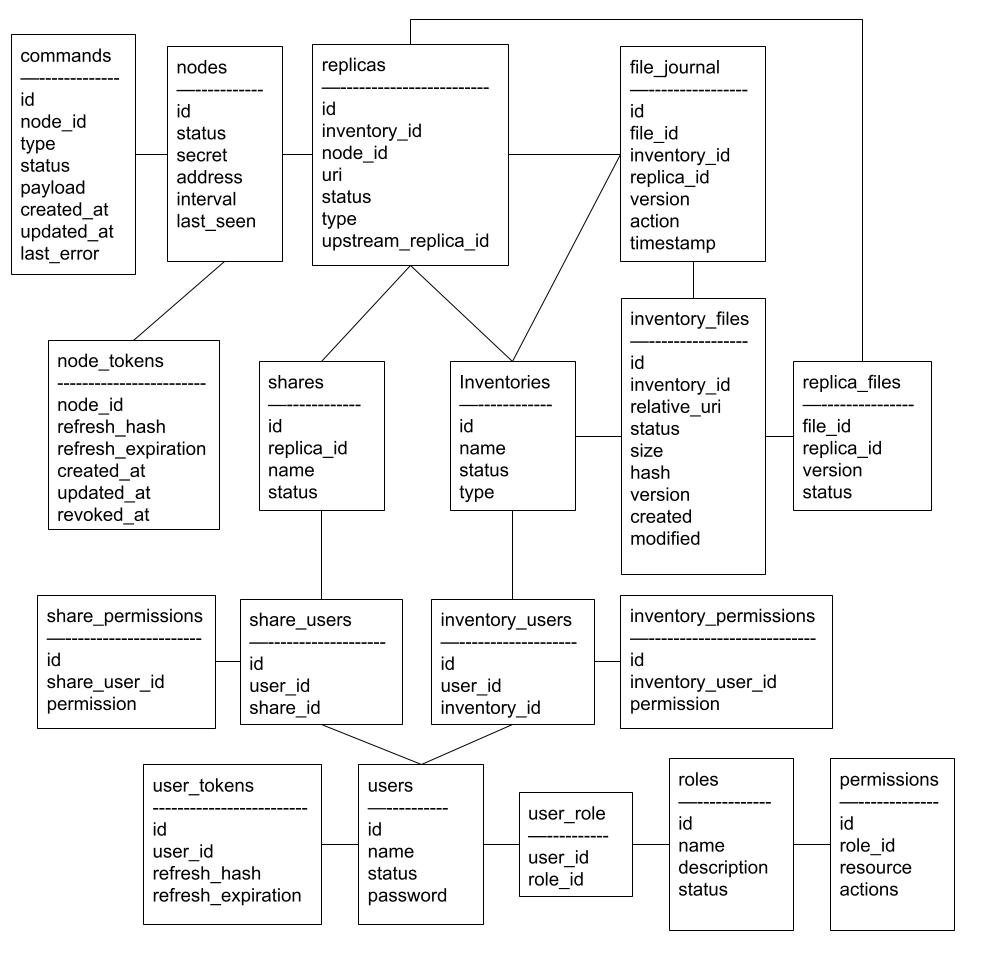
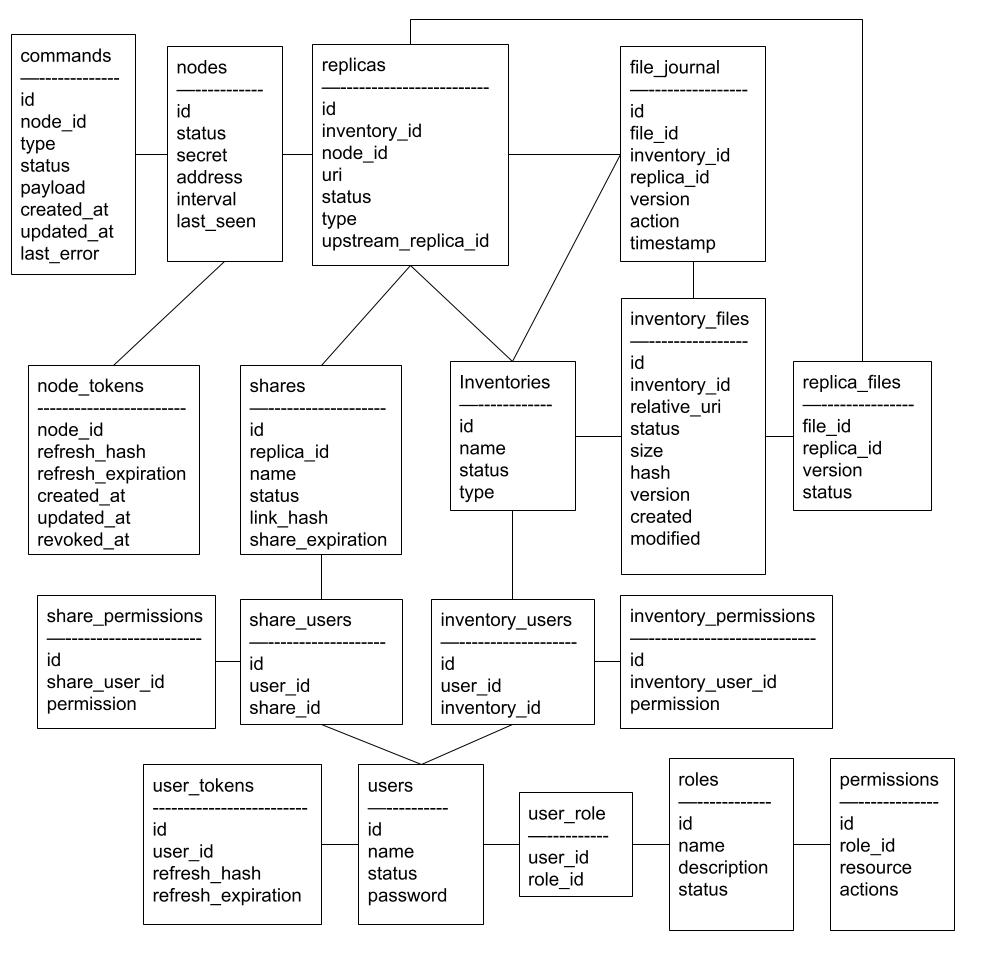
documentation update

diff --git a/docs/application.md b/docs/application.md
@@ -357,9 +357,9 @@ Before the storage service performs its first scan, the coordinator creates a pl
 
 ```
 inventory_files
-file_id  inventory_id  relative_uri  version  status
-----------------------------------------------------
-10       1             img001.jpg    0        active
+file_id  inventory_id  relative_uri          version  status
+------------------------------------------------------------
+10       1             img001.jpg            0        active
 11       1             subfolder/img002.jpg  0        active
 ```
 
@@ -555,9 +555,9 @@ B   2             node-1   file:///data/photos/album  filesystem  active  null
 
 ```
 inventory_files
-file_id  inventory_id  relative_uri  version  status
-----------------------------------------------------
-20       2             cover.jpg     0        active
+file_id  inventory_id  relative_uri           version  status
+-------------------------------------------------------------
+20       2             cover.jpg              0        active
 21       2             subfolder/feature.jpg  0        active
 ```
 
@@ -586,9 +586,9 @@ and reports its metadata.
 
 ```
 inventory_files
-file_id  inventory_id  relative_uri  version  status  created  modified  size  hash
-------------------------------------------------------------------------------------
-20       2             cover.jpg     1        active  time1    time2     512   hashX
+file_id  inventory_id  relative_uri           version  status  created  modified  size  hash
+---------------------------------------------------------------------------------------------
+20       2             cover.jpg              1        active  time1    time2     512   hashX
 21       2             subfolder/feature.jpg  1        active  time1    time2     256   hashY
 ```
 